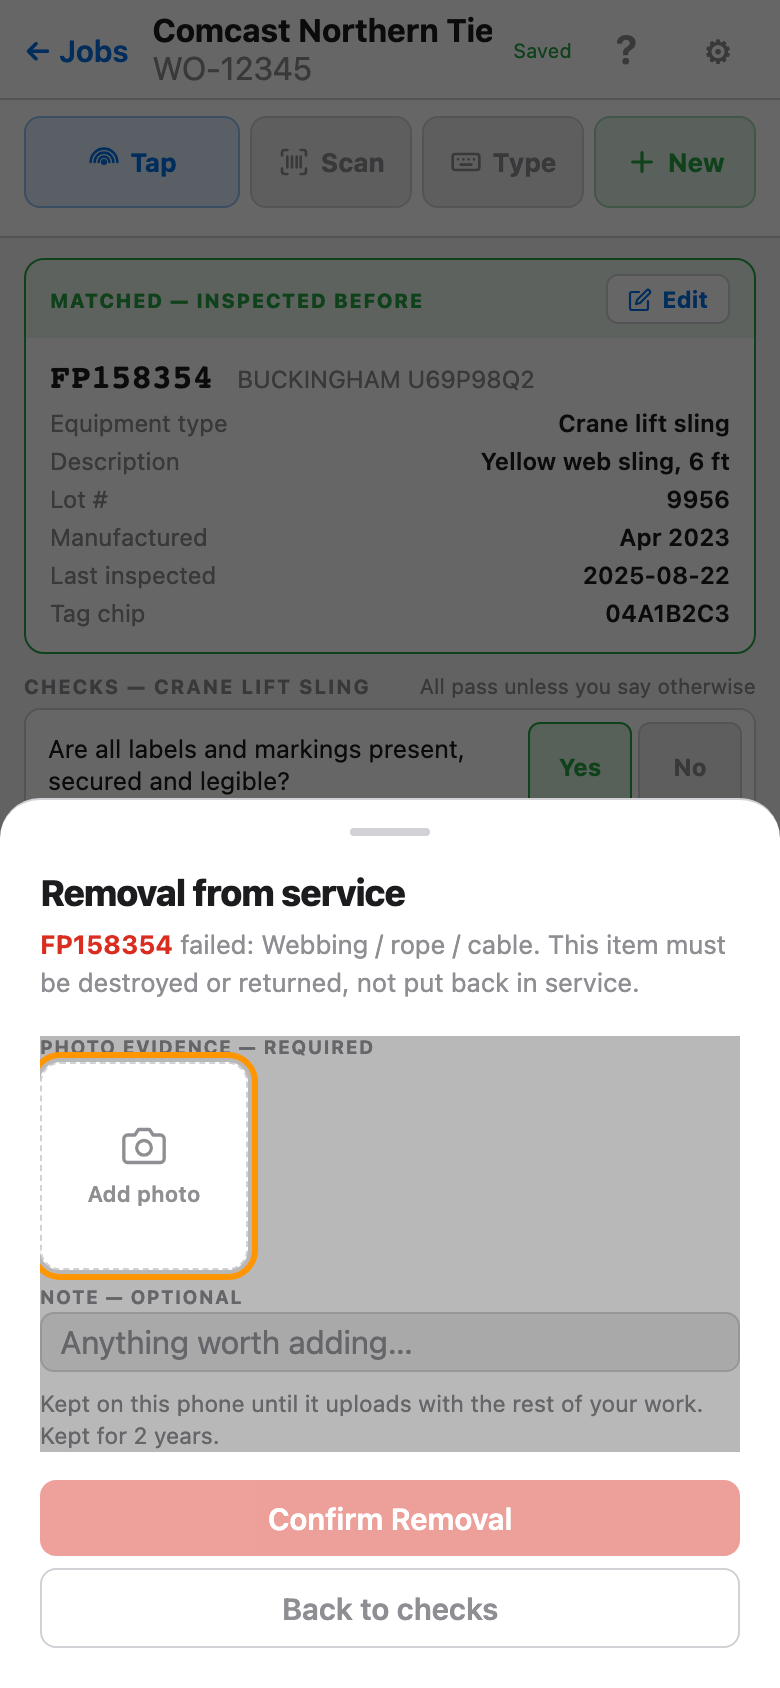
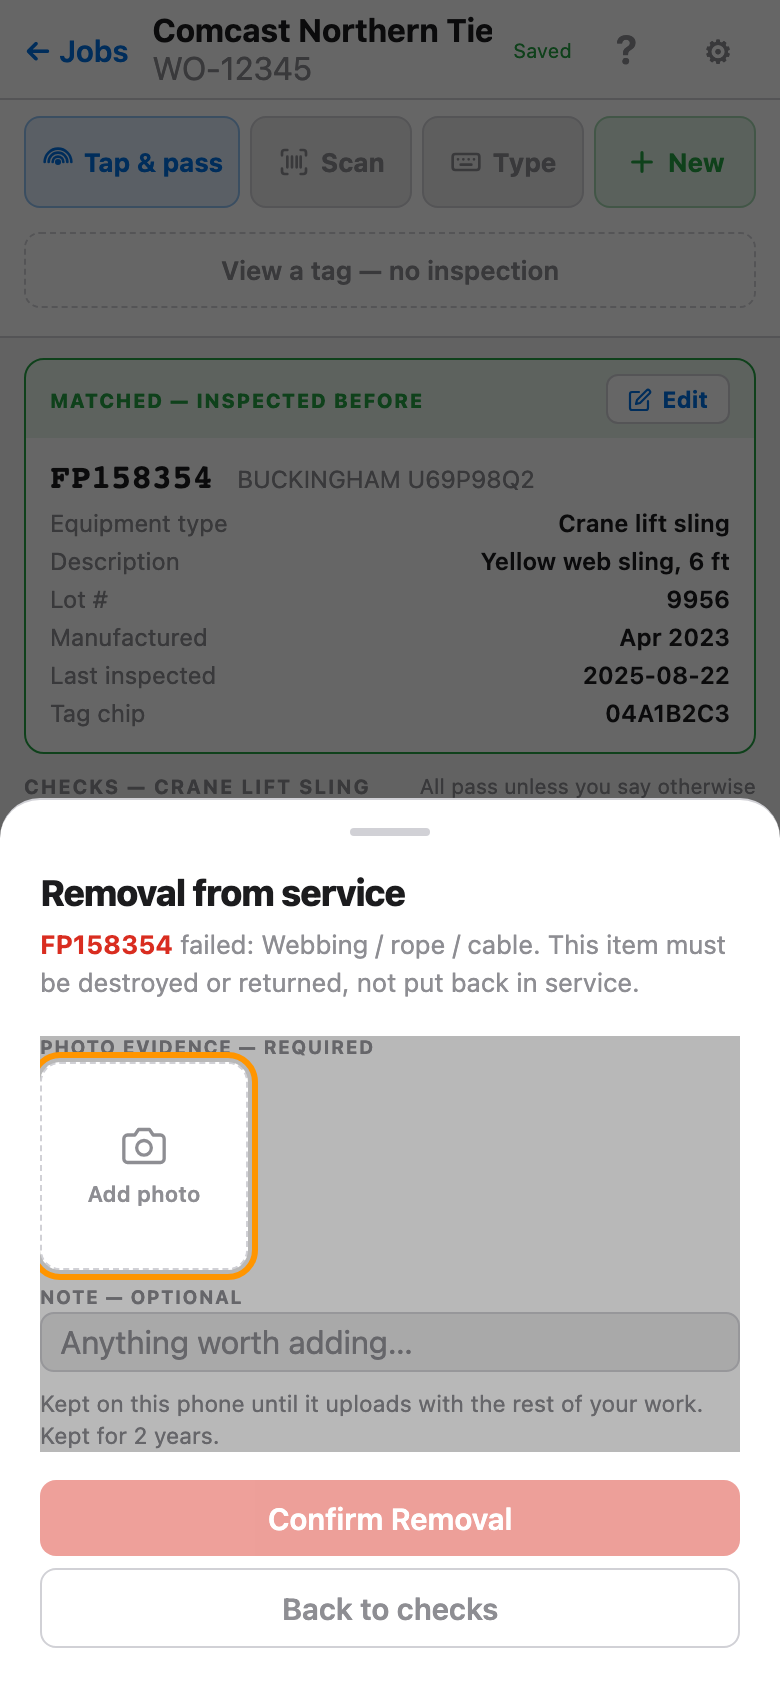
Label Tap as Tap & pass
Tap records a pass for every tag now; the button says so, with View a tag as
the quieter way to look without recording.

diff --git a/field-app/js/help.js b/field-app/js/help.js
@@ -175,9 +175,9 @@
         p('Before you can inspect something the app has to know which item it is. ' +
           'There are four ways in, and you use whichever is easiest with the item ' +
           'in your hand:'),
-        shot('fp-input', 'Tap, Scan, Type, or New — pick whichever suits the item.'),
+        shot('fp-input', 'Tap & pass, Scan, Type, or New — pick whichever suits the item.'),
         steps([
-          '<strong>Tap</strong> — starts tap-through: every tag you tap is recorded as ' +
+          '<strong>Tap &amp; pass</strong> — starts tap-through: every tag you tap is recorded as ' +
           'passed on the spot. Fastest by far — see <em>Tap-through</em>.',
           '<strong>Scan</strong> — point the camera at a barcode.',
           '<strong>Type</strong> — key the serial in by hand.',
@@ -244,7 +244,7 @@
       title: 'Tap-through: working a whole rack',
       blurb: 'Look it over, tap it, it is passed. Only a defect costs a press.',
       body: [
-        p('Press <strong>Tap</strong> and the reader stays on. Look an item over, ' +
+        p('Press <strong>Tap &amp; pass</strong> and the reader stays on. Look an item over, ' +
           'then tap its tag: it is <strong>recorded as passed right there</strong>, ' +
           'every check at pass, and the reader is ready for the next one.'),
         shot('fp-batch', 'A tap-through run. The last tap is recorded as passed; Fail is there if it should not have been.'),

diff --git a/field-app/index.html b/field-app/index.html
@@ -1087,7 +1087,7 @@
   <div id="fp-input-panel" style="display:none;">
     <div class="fp-ways" id="fp-ways-row">
       <button class="fp-way primary" id="fp-btn-tap">
-        <svg viewBox="0 0 24 24" fill="none" stroke="currentColor" stroke-width="2" stroke-linecap="round"><path d="M5 12a7 7 0 0 1 14 0"/><path d="M8 12a4 4 0 0 1 8 0"/><circle cx="12" cy="12" r="1.3" fill="currentColor"/><path d="M2 12a10 10 0 0 1 20 0"/></svg>Tap
+        <svg viewBox="0 0 24 24" fill="none" stroke="currentColor" stroke-width="2" stroke-linecap="round"><path d="M5 12a7 7 0 0 1 14 0"/><path d="M8 12a4 4 0 0 1 8 0"/><circle cx="12" cy="12" r="1.3" fill="currentColor"/><path d="M2 12a10 10 0 0 1 20 0"/></svg>Tap &amp; pass
       </button>
       <button class="fp-way" id="fp-btn-scan">
         <svg viewBox="0 0 24 24" fill="none" stroke="currentColor" stroke-width="2" stroke-linecap="round"><path d="M3 7V5a2 2 0 0 1 2-2h2M17 3h2a2 2 0 0 1 2 2v2M21 17v2a2 2 0 0 1-2 2h-2M7 21H5a2 2 0 0 1-2-2v-2"/><path d="M7 8v8M10.5 8v8M14 8v8M17 8v8"/></svg>Scan
